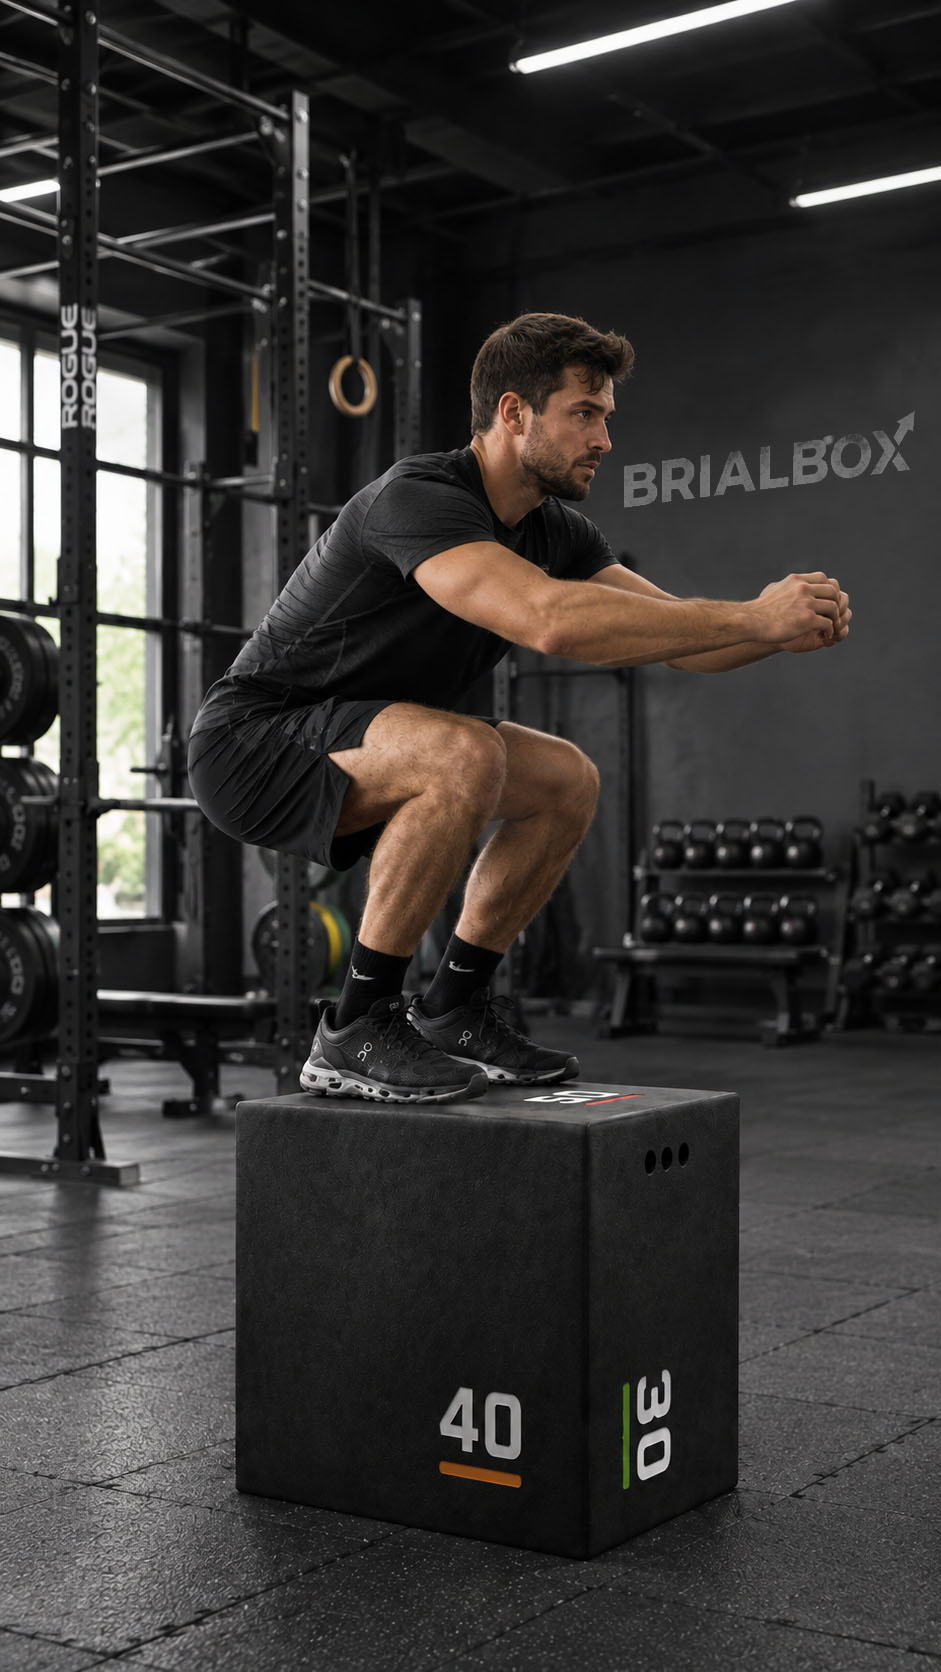
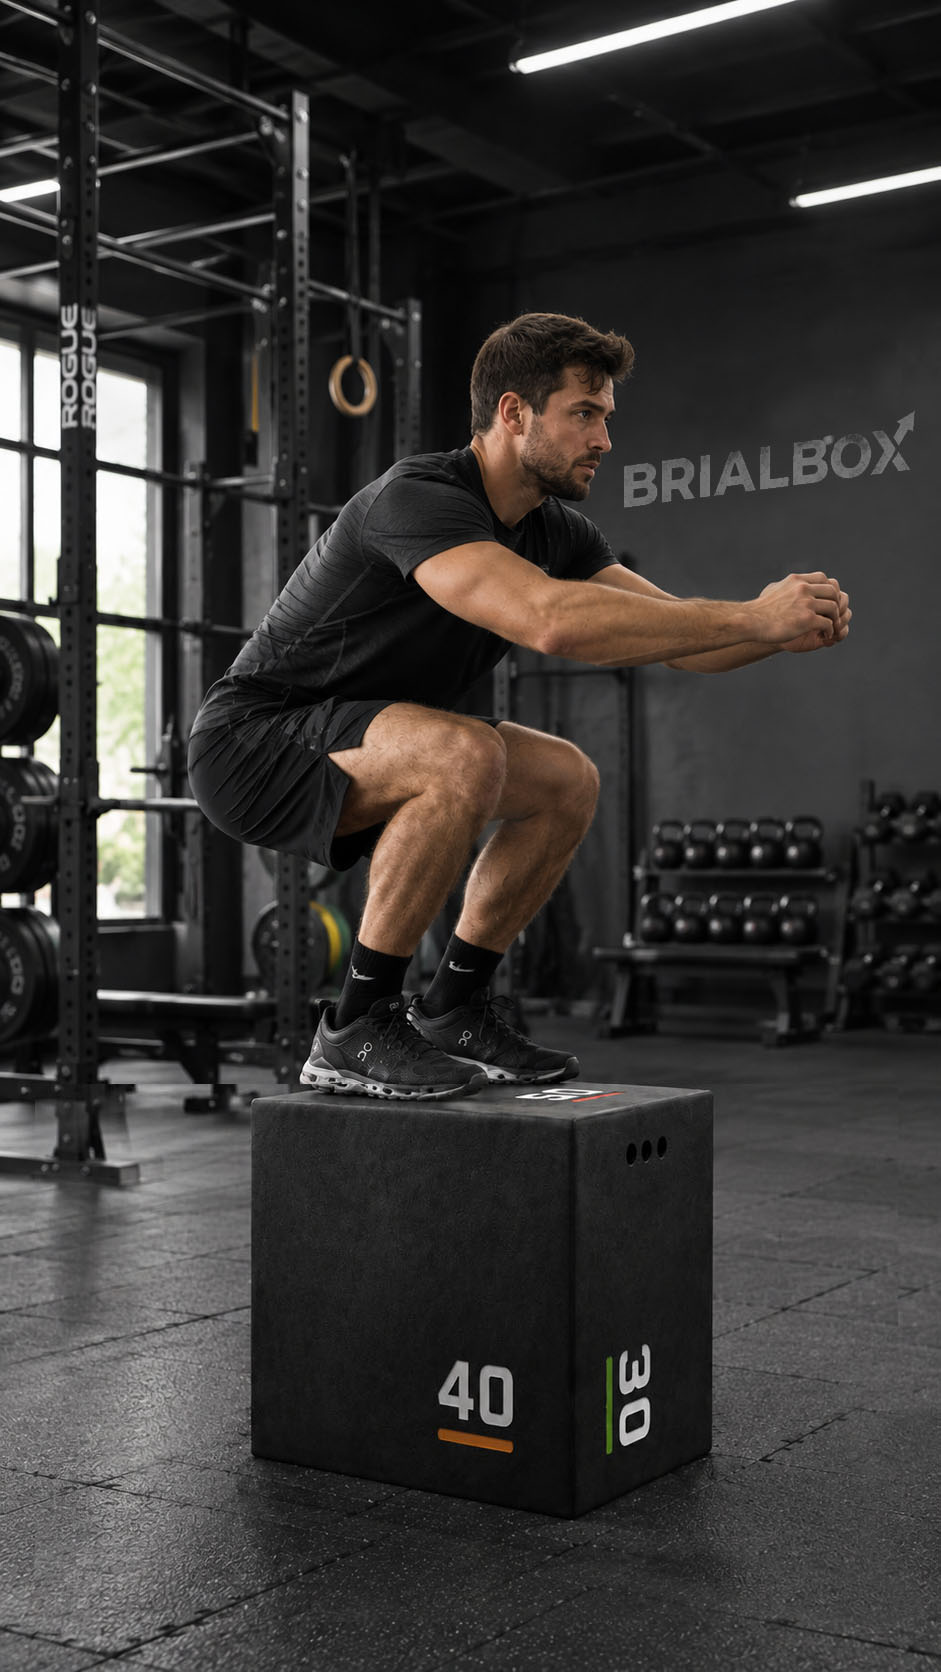
Add files via upload

Changed region(s): [[0.0, 0.622, 0.8937, 0.933], [0.9245, 0.8397, 0.9862, 0.8708]]

diff --git a/index.html b/index.html
@@ -67,7 +67,7 @@
 
         /* RESPONSIVE MOBILE */
         @media (max-width: 992px) {
-            .hero h1 { font-size: 2rem; }
+            .hero h1 { font-size: 1rem; }
             .logo img { height: 40px; }
             nav { display: none; }
             .features-container { flex-direction: column; }
